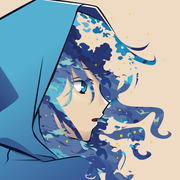
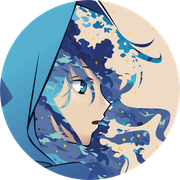
fix: 图标改为圆形裁剪并换文件名破缓存

diff --git a/ops/make-favicon.py b/ops/make-favicon.py
@@ -1,31 +1,53 @@
 #!/usr/bin/env python3
 """
-从头像生成站点图标（favicon / apple-touch-icon）。
+从头像生成站点图标。
+
+设计要点：
+  1. 圆形裁剪 —— 和侧边栏资料卡的圆形头像一致，语义清晰
+  2. 轻微放大 —— 让主体在 16x16 下占比更大、更容易辨认
+  3. 文件名带版本号 —— 换图标时改 VERSION 可强制浏览器重新拉取
+     （浏览器对 favicon 的缓存极其顽固，改 URL 是最可靠的破缓存方式）
 
 用法:
     python ops/make-favicon.py
-
-输入:  public/images/avatar.png
-输出:  public/favicon.ico            多尺寸 ICO（16/32/48）
-       public/favicon-32x32.png
-       public/favicon-16x16.png
-       public/apple-touch-icon.png  180x180（iOS 添加到主屏）
 """
 from pathlib import Path
-from PIL import Image
+from PIL import Image, ImageDraw
 
 ROOT = Path(__file__).resolve().parent.parent
 PUBLIC = ROOT / "public"
 SRC = PUBLIC / "images" / "avatar.png"
 
+# 改这个数字即可强制所有浏览器重新拉取图标
+VERSION = 2
 
-def center_square(img: Image.Image) -> Image.Image:
-    """裁成居中正方形，保证缩放后主体不被拉伸"""
+# 圆形裁剪后再放大一点，让主体更充满
+ZOOM = 0.92
+
+# 圆形外部是否填充纯色（None = 透明）
+OUTSIDE_FILL = None
+
+
+def center_square(img: Image.Image, zoom: float = 1.0) -> Image.Image:
+    """裁成居中正方形；zoom<1 表示向内多切一点（主体显得更大）"""
     w, h = img.size
-    side = min(w, h)
+    side = int(min(w, h) * zoom)
     left = (w - side) // 2
     top = (h - side) // 2
     return img.crop((left, top, left + side, top + side))
+
+
+def circular(img: Image.Image) -> Image.Image:
+    """应用圆形遮罩"""
+    size = img.size[0]
+    mask = Image.new("L", (size, size), 0)
+    draw = ImageDraw.Draw(mask)
+    # 稍微内缩 1px，避免边缘锯齿
+    draw.ellipse((1, 1, size - 2, size - 2), fill=255)
+
+    out = Image.new("RGBA", (size, size), (0, 0, 0, 0) if OUTSIDE_FILL is None else OUTSIDE_FILL + (255,))
+    out.paste(img, (0, 0), mask)
+    return out
 
 
 def main() -> None:
@@ -33,32 +55,37 @@ def main() -> None:
         raise SystemExit(f"找不到源图: {SRC}")
 
     img = Image.open(SRC).convert("RGBA")
-    print(f"源图: {SRC.name}  {img.size[0]}x{img.size[1]}")
+    print(f"源图      : {SRC.name}  {img.size[0]}x{img.size[1]}")
 
-    sq = center_square(img)
-    print(f"裁切后: {sq.size[0]}x{sq.size[1]}")
+    sq = center_square(img, ZOOM)
+    print(f"裁剪(zoom={ZOOM}): {sq.size[0]}x{sq.size[1]}")
 
-    # 各尺寸 PNG
-    for size in (16, 32, 180):
-        out = sq.resize((size, size), Image.LANCZOS)
-        if size == 180:
-            name = "apple-touch-icon.png"
-        else:
-            name = f"favicon-{size}x{size}.png"
+    circ = circular(sq)
+    print("已应用圆形遮罩")
+
+    # 各尺寸 PNG（文件名带版本号以破缓存）
+    outputs = [
+        (16, f"icon-{VERSION}-16.png"),
+        (32, f"icon-{VERSION}-32.png"),
+        (180, "apple-touch-icon.png"),   # iOS 约定名，保持不变
+    ]
+    for size, name in outputs:
+        out = circ.resize((size, size), Image.LANCZOS)
         path = PUBLIC / name
         out.save(path, "PNG", optimize=True)
-        print(f"  生成 {name:26} {size}x{size}  {path.stat().st_size / 1024:.1f} KB")
+        print(f"  {name:26} {size:>3}x{size:<3}  {path.stat().st_size / 1024:6.1f} KB")
 
-    # 多尺寸 ICO
-    ico_path = PUBLIC / "favicon.ico"
-    sq.resize((48, 48), Image.LANCZOS).save(
+    # 多尺寸 ICO（同尺寸取最大帧作为源，Pillow 会内嵌三帧）
+    ico_name = f"icon-{VERSION}.ico"
+    ico_path = PUBLIC / ico_name
+    circ.resize((48, 48), Image.LANCZOS).save(
         ico_path,
         format="ICO",
         sizes=[(16, 16), (32, 32), (48, 48)],
     )
-    print(f"  生成 {'favicon.ico':26} 16/32/48  {ico_path.stat().st_size / 1024:.1f} KB")
+    print(f"  {ico_name:26}  16/32/48  {ico_path.stat().st_size / 1024:6.1f} KB")
 
-    print("\n完成。记得在 Base.astro 的 <head> 里引用这些文件。")
+    print(f"\n完成。记得同步更新 Base.astro 里的图标路径（版本 v{VERSION}）。")
 
 
 if __name__ == "__main__":
